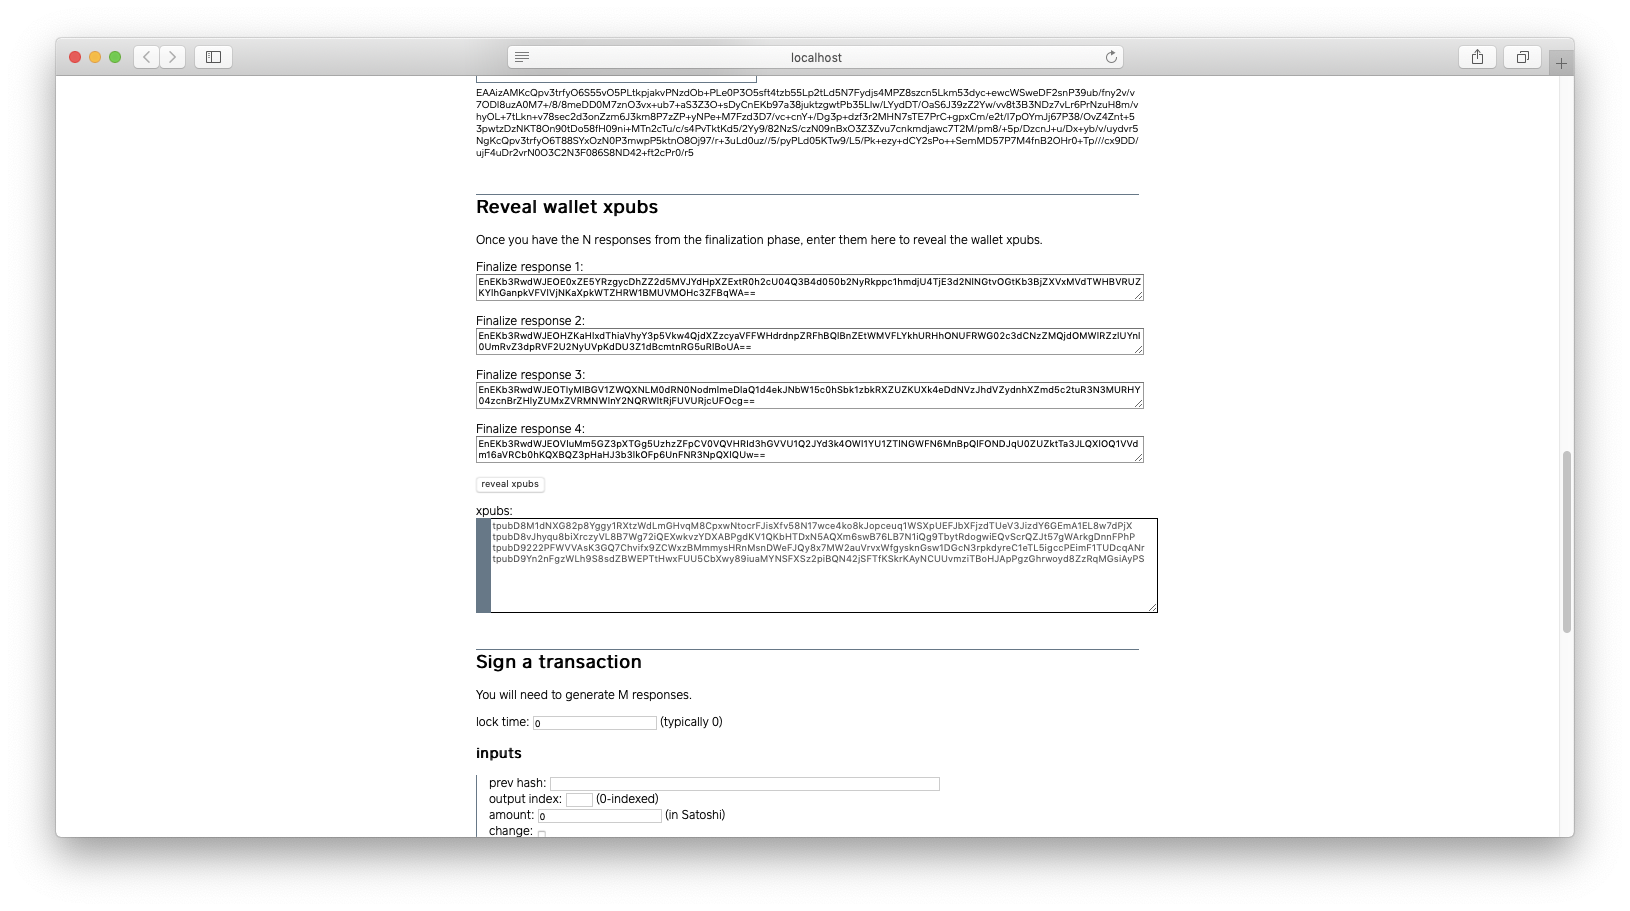
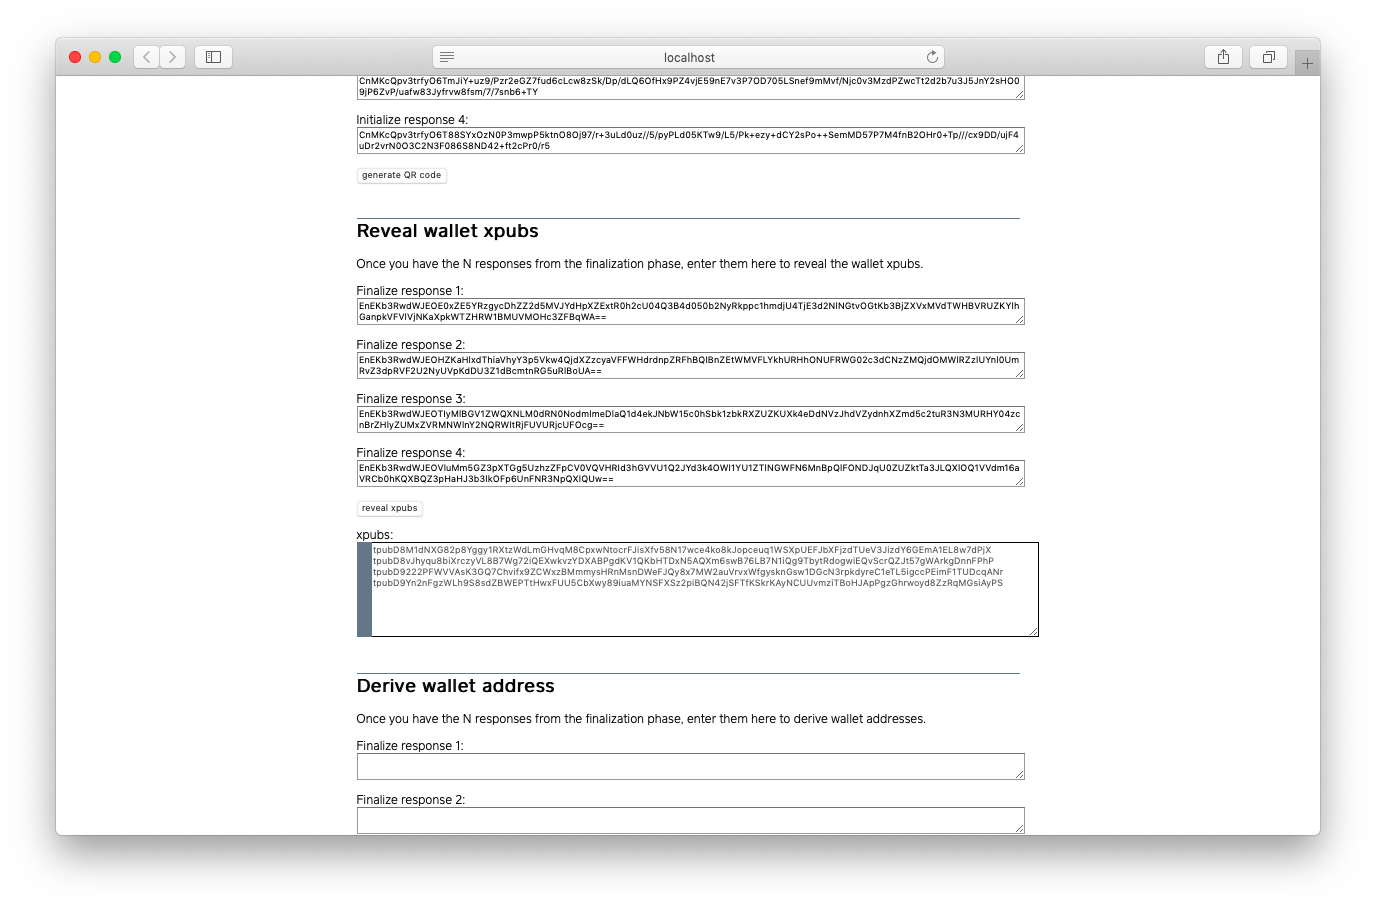
Expand docs to explain how to sign a transaction

diff --git a/docs/running_without_hsm.md b/docs/running_without_hsm.md
@@ -1,7 +1,7 @@
 # Building and Running the code without HSMs
 
 Subzero can be used without HSMs. This is useful for evaluation purpose as well as development. The wallet is however
-not encrypted -- for production, Subzero's security model assumes you are using a HSM.
+not encrypted -- Subzero's security model assumes you are using a HSM in your production setup.
 
 The instructions in this page work with Mac OS X. Linux users can simply skip irrelevant parts. Windows users are
 advised to use a virtualization layer (e.g. Ubuntu inside VirtualBox).
@@ -73,7 +73,7 @@ Your environment should look as following (from top left, going clockwise): the 
 ## Creating a wallet and signing your first transaction
 
 By default, Subzero is configured to work with 2-of-4 signatures. Creating a wallet will therefore require 4
-initialization and 4 finalization steps.
+initialization and 4 finalization steps. Broadcasting a transaction will require 2 signatures.
 
 ### Initialization
 On the web browser, click on "generate QR code" under Initialize a wallet. Unless if you set a wallet id, the QR code
@@ -87,7 +87,7 @@ support clipboard operations. You can instead use the Terminal tab to copy-paste
 <img src="../init_wallet_gui.png">
 
 Type "yes" + [enter] to continue. A QR code is displayed, but you can also copy the data from the Terminal. You will
-want to save this response in TextEdit.
[1 lines of base64/hex data omitted]
 
 <img src="../init_wallet_gui_done.png">
 
@@ -96,7 +96,7 @@ Before you can repeat the wallet initialization process 3 more times, you need t
     # In a fresh Terminal tab
     cd /data/app/subzero/wallets
     mkdir initialized
-    mv subzero-0.wallet initialized/subzero-0.wallet-1
+    mv -n subzero-0.wallet initialized/subzero-0.wallet-1
 
 Once you are done initializing the 4 shares, you'll have 4 files in /data/app/subzero/wallets/initialized:
 
@@ -108,24 +108,34 @@ And 4 responses in TextEdit:
 ### Finalization
 
 You can now finalize each share. Using the Finalize a wallet section in the web browser, fill out each initialize
-response and click on "generate QR code":
+response and click on "generate QR code". For reference, here is our data, but yours will differ:
+
+```no-highlight
[6 lines of base64/hex data omitted]
+Tp///cx9DD/ujF4uDr2vrN0O3C2N3F086S8ND42+ft2cPr0/r5
+```
 
 <img src="../finalize_wallet_web.png">
 
 You can now finalize each wallet file. You will have to, one-by-one, copy wallet files from /data/app/subzero/wallets/initialized
 to /data/app/subzero/wallets/ and move the result to /data/app/subzero/wallets/finalized/.
 
-    mv initialized/subzero-0.wallet-1 subzero-0.wallet
+    mv -n initialized/subzero-0.wallet-1 subzero-0.wallet
 
 <img src="../finalize_wallet_gui.png">
 
-Type "yes" + [enter] to continue. Again, make sure you record each response.
[1 lines of base64/hex data omitted]
 
 <img src="../finalize_wallet_gui_done.png">
 
 Move the wallet file out of the way and finalize the remaining 3 shares.
 
-    mv subzero-0.wallet finalized/subzero-0.wallet-1
+    mv -n subzero-0.wallet finalized/subzero-0.wallet-1
 
 Once you are done finalizing the 4 shares, you'll have 4 files in /data/app/subzero/wallets/finalized:
 
@@ -136,6 +146,66 @@ And 4 more responses in TextEdit:
 
 ### Reveal wallet xpubs
 
-Using the 4 responses from the finalization step and the web browser, you can get the xpubs:
+Using the 4 responses from the finalization step and the web browser, you can get the extended public keys
+(`xpub` prefix for mainnet and `tpub` prefix for testnet). These public keys can be used to derive addresses and send
+funds to the cold wallet.
 
 <img src="../xpubs.png">
+
+### Derive an address and send funds
+
+Using the same 4 responses from the finalization step and the web browser, you can get addresses. Let's derive the
+first non-change address. In our case, we get `2NF3qdAFLNTvC8C7kqbccndZzqU22uFAr8Z`.
+
+<img src="../derive_wallet_address.png">
+
+We can send funds to this address and then use our wallet shares to sign a transaction which moves the funds out. For testnet addresses, we can use
+a [faucet](https://coinfaucet.eu/en/btc-testnet/), which is a free service available to Bitcoin developers to get testnet coins.
+
+We can then see [our transaction](https://live.blockcypher.com/btc-testnet/tx/1b0d4220b5c857ba5632c8418bf4ab1e0e7913c19cd7b967ee54c66fe566fdcd/) on block explorer.
+
+### Sign a transaction
+
+The server component of Subzero currently does not perform any kind of wallet or UTXO management. We must therefore
+provide the inputs and desired outputs. For our first transaction, we'll use the funding transaction as our sole input
+and send all the funds (minus the fee) to the gateway.
+
[1 lines of base64/hex data omitted]
+
+<img src="../first_transaction.png">
+
+We'll need to use any two wallet shares to sign this transaction.
+
+    mv -n finalized/subzero-0.wallet-1 subzero-0.wallet
+
+<img src="../sign_tx_gui.png">
+
+Resulting in a signing response. Repeat the process with another wallet share to get two responses (our threshold).
+
+```no-highlight
[1 lines of base64/hex data omitted]
+uth1SxBIgw0s2r0xGp0FVRtRYTDAUIYKGGUQCdaZHmyoft+5L4/U=
[1 lines of base64/hex data omitted]
+85/kXJD8SIMNLNq9MRqdBVUbUWEwwFCGChhlEAnWmR5sqH7fuS+P1
+```
+
+Use the web browser to merge these signatures into a transaction.
+
+<img src="../final_transaction.png">
+
+Our final transaction is:
+
+```no-highlight
[8 lines of base64/hex data omitted]
+5181c634b738618509da507724c375da32206629146b4d54ae00000000
+```
+
+We used [https://testnet.smartbit.com.au/txs/pushtx](https://testnet.smartbit.com.au/txs/pushtx) to broadcast this
+[transaction](https://live.blockcypher.com/btc-testnet/tx/6d0e73105c63b43a62ee3c5cfedae549b859282cb5d5361aaa5e600417012a76/).
